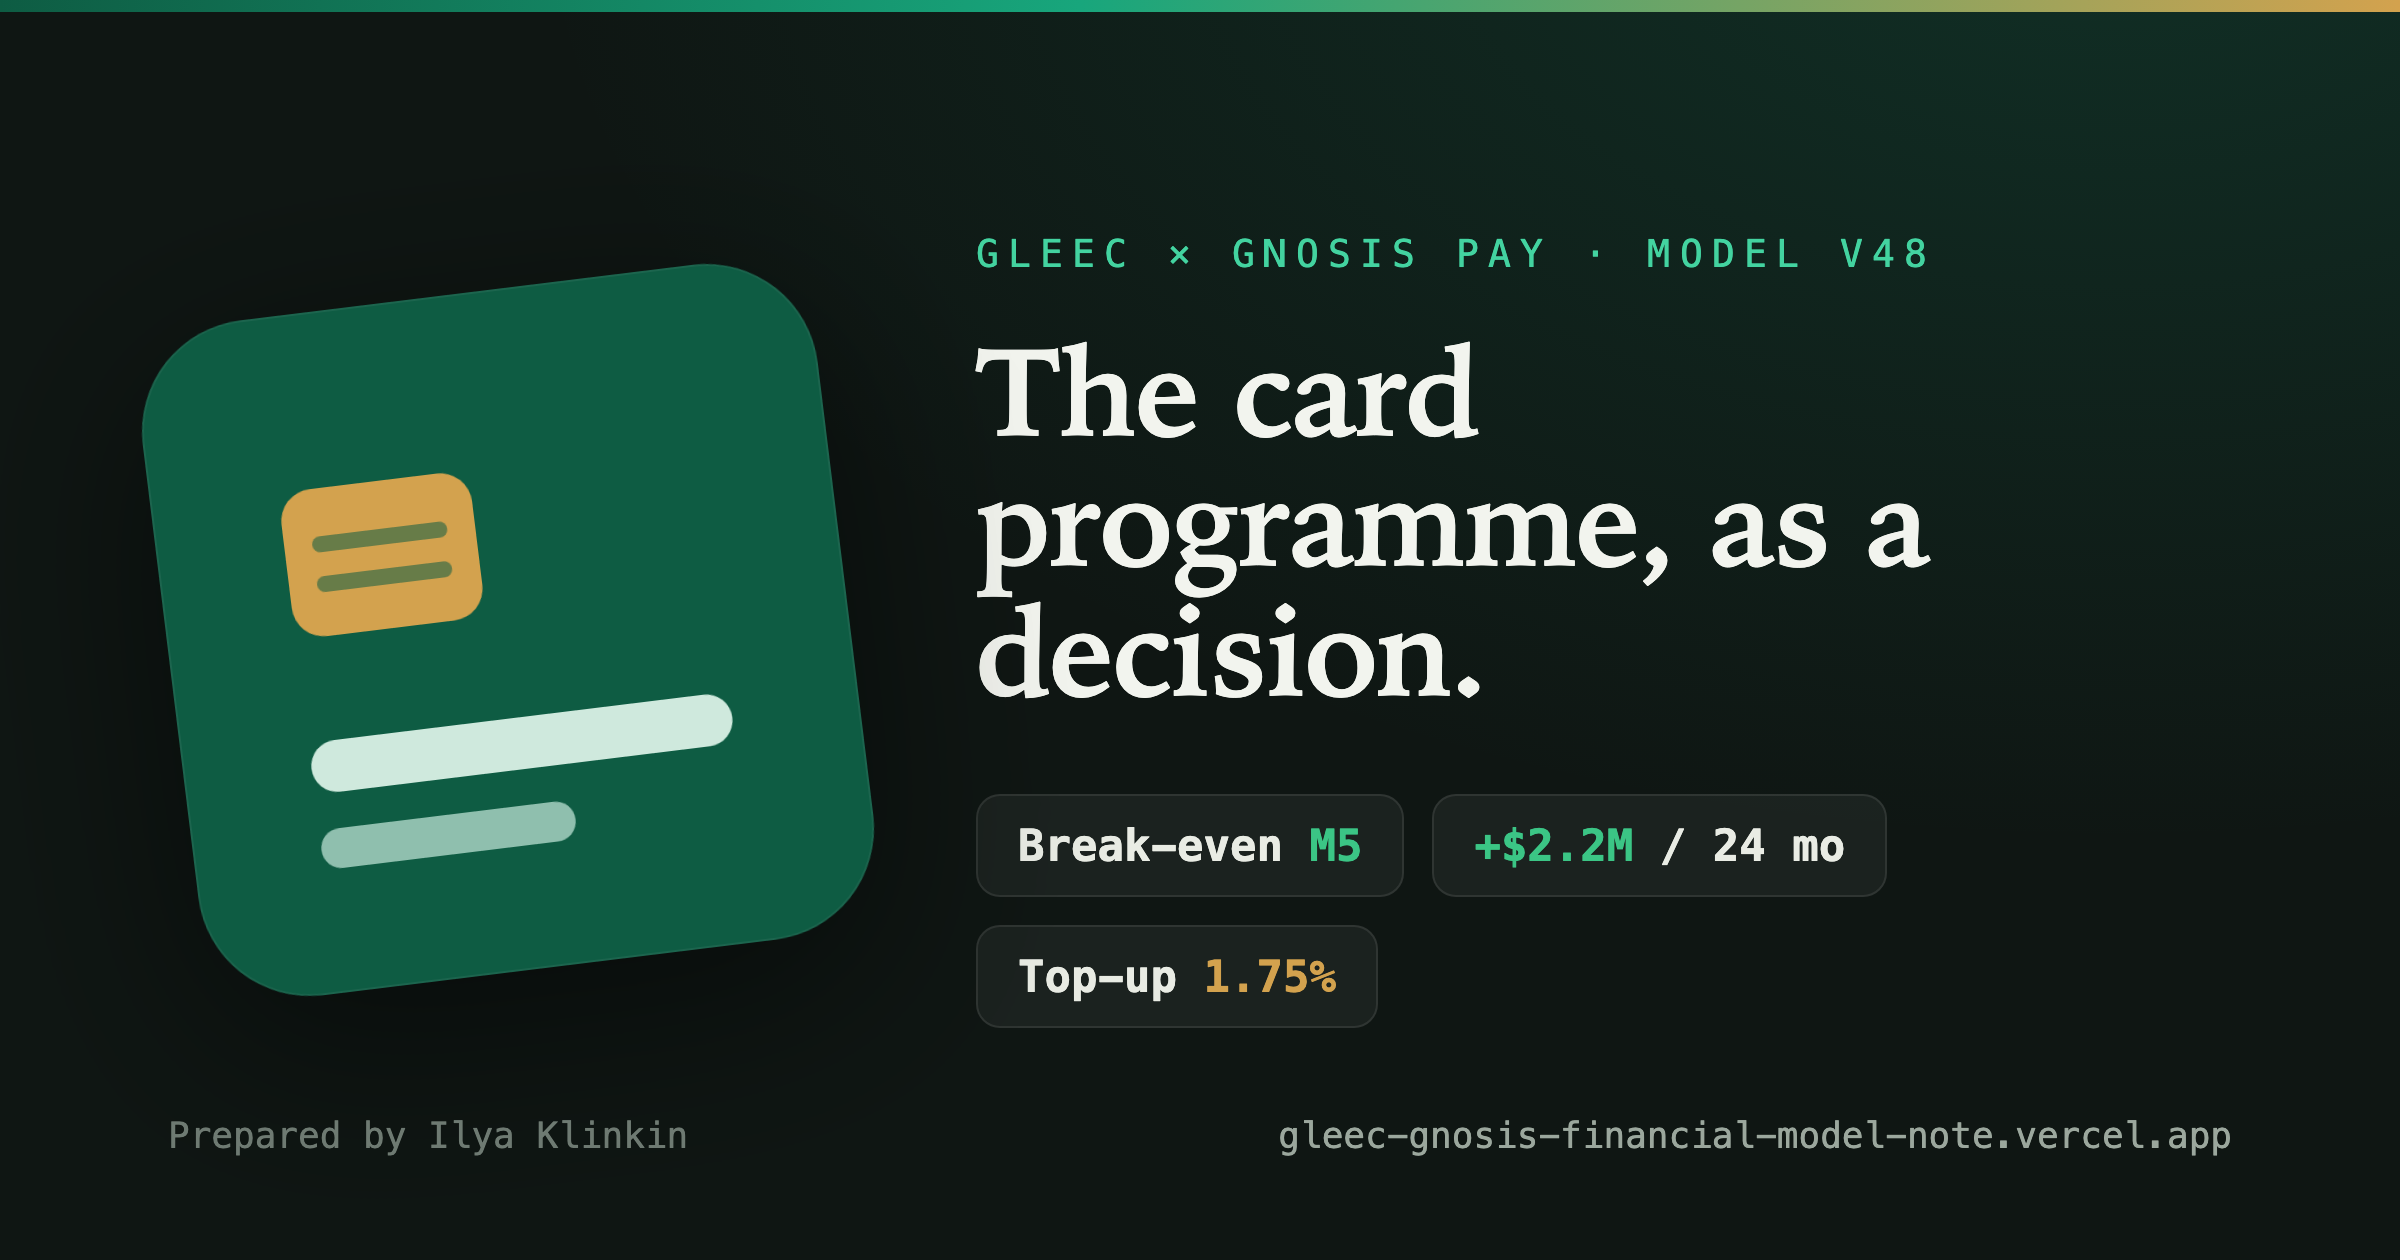
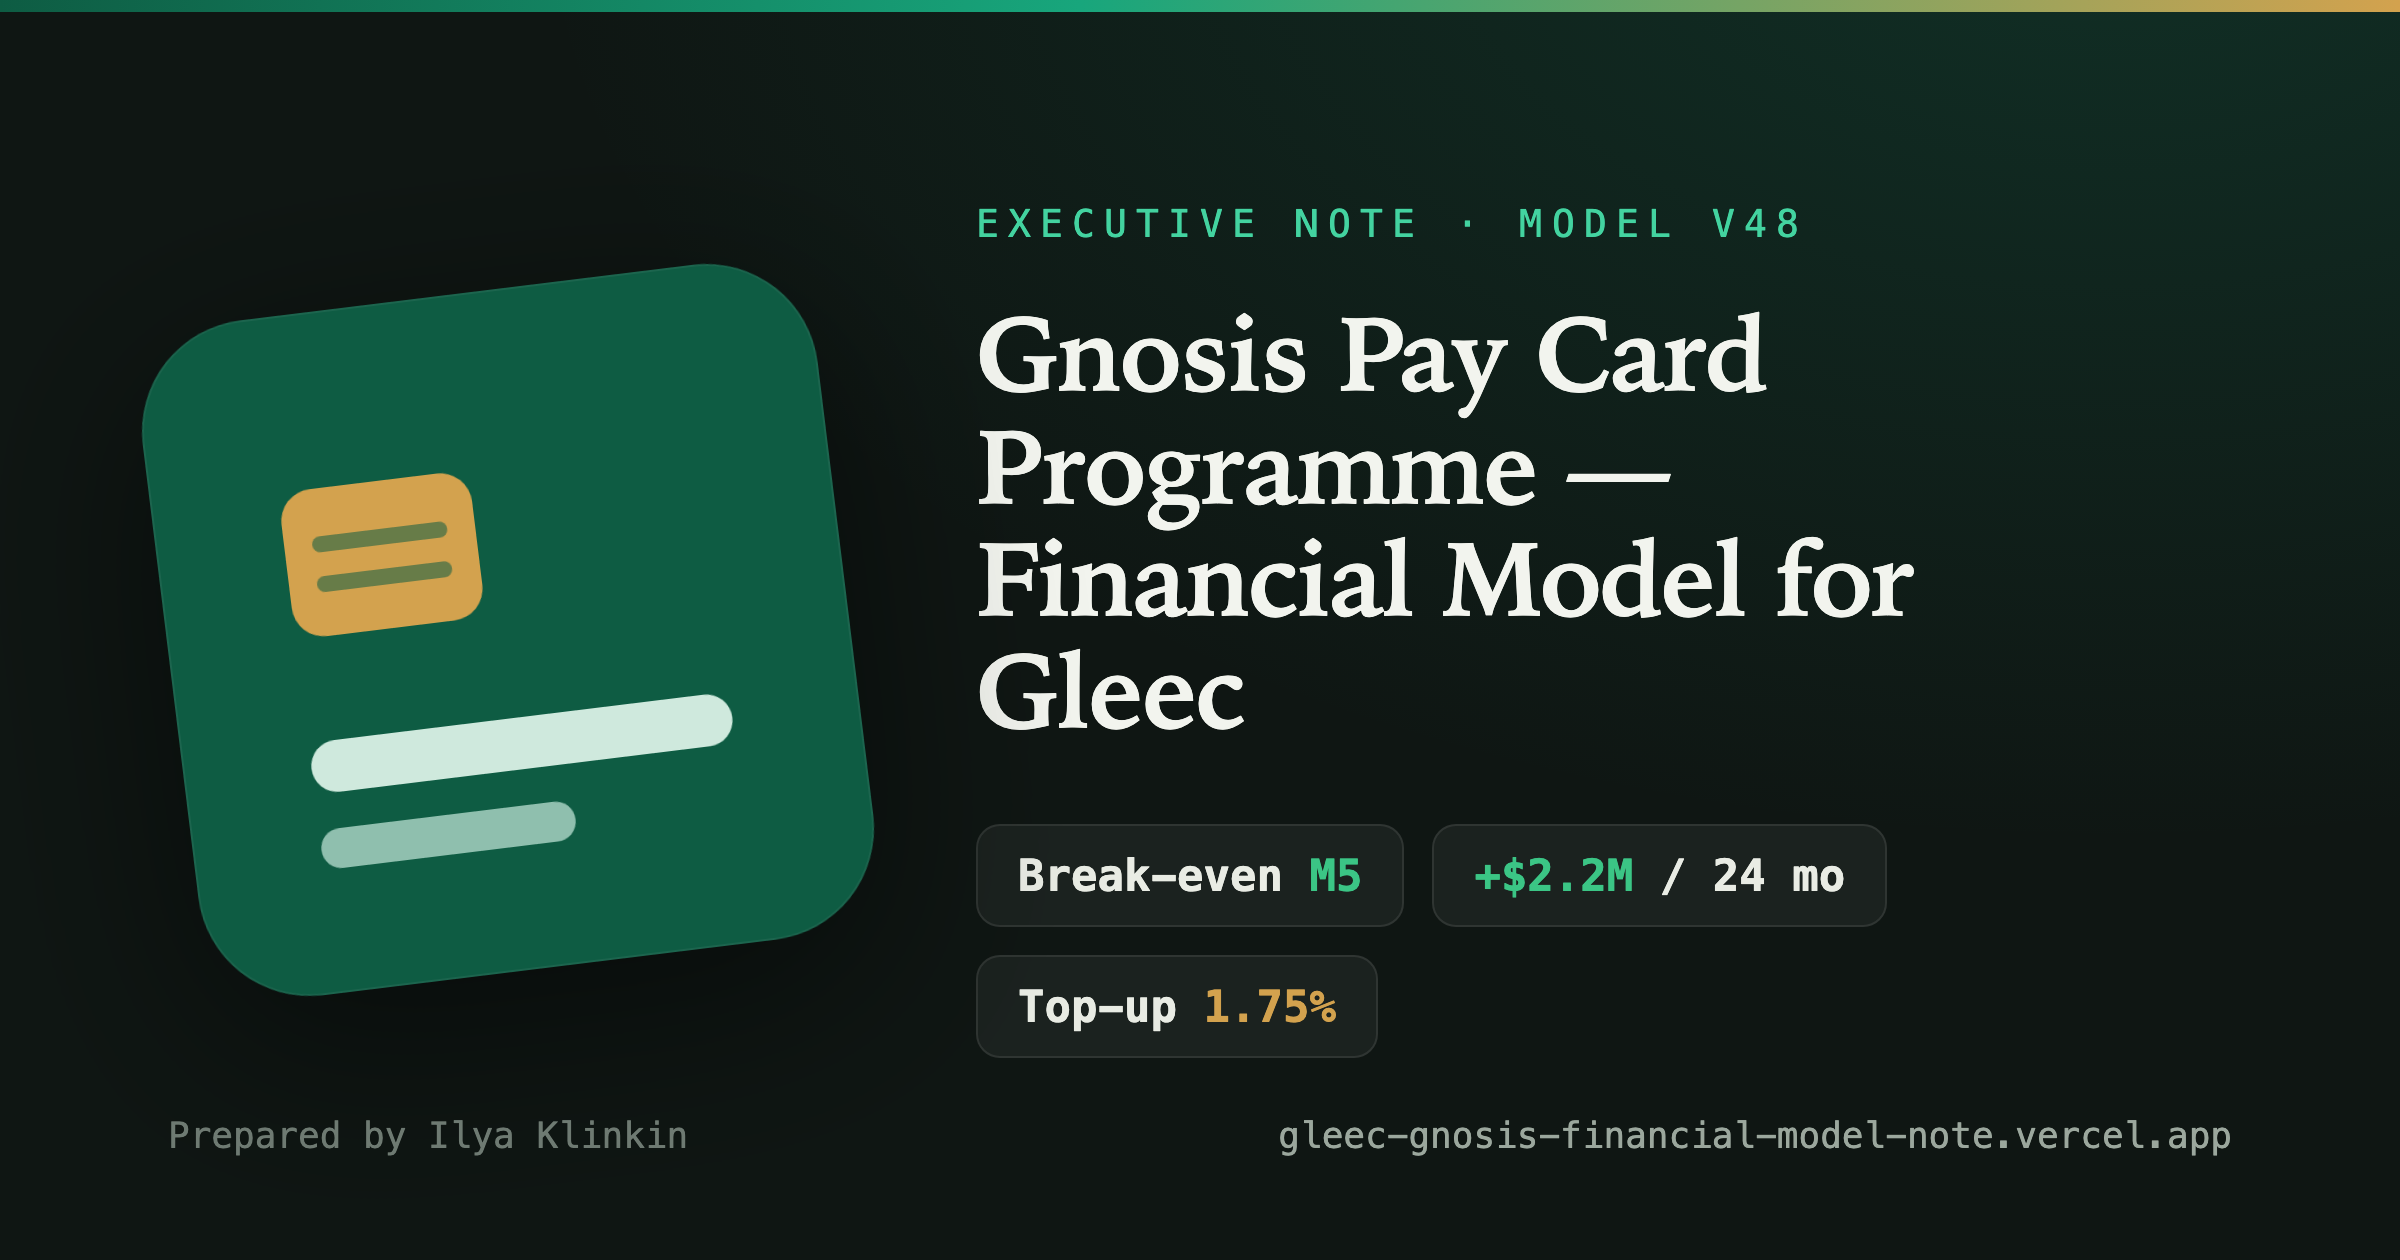
content: use formal title as headline, drop the eyebrow and punchy hook
Reads as an executive note rather than an article: H1 is now 'Gnosis Pay Card Programme - Financial Model for Gleec' at calmer sizing. Aligns <title>, og/twitter titles, and regenerates the share card to match ('Executive Note' eyebrow).

diff --git a/index.html b/index.html
@@ -6,9 +6,9 @@
 <meta name="description" content="Executive briefing on the Gleec / Gnosis Pay card financial model (v48).">
 <meta name="color-scheme" content="light dark">
 <link rel="icon" type="image/svg+xml" href="favicon.svg">
-<title>Gleec &times; Gnosis Pay &mdash; The Card Programme as a Decision</title>
+<title>Gnosis Pay Card Programme &mdash; Financial Model for Gleec</title>
 <meta property="og:type" content="article">
-<meta property="og:title" content="Gleec × Gnosis Pay — The Card Programme as a Decision">
+<meta property="og:title" content="Gnosis Pay Card Programme — Financial Model for Gleec">
 <meta property="og:description" content="Executive briefing on the Gleec / Gnosis Pay card financial model (v48): break-even in month 5, +$2.2M over 24 months, with interactive charts.">
 <meta property="og:url" content="https://gleec-gnosis-financial-model-note.vercel.app">
 <meta property="og:image" content="https://gleec-gnosis-financial-model-note.vercel.app/og-image.png">
@@ -16,7 +16,7 @@
 <meta property="og:image:height" content="1260">
 <meta property="og:image:alt" content="Gleec × Gnosis Pay financial model v48 — break-even month 5, +$2.2M over 24 months.">
 <meta name="twitter:card" content="summary_large_image">
-<meta name="twitter:title" content="Gleec × Gnosis Pay — The Card Programme as a Decision">
+<meta name="twitter:title" content="Gnosis Pay Card Programme — Financial Model for Gleec">
 <meta name="twitter:description" content="Executive briefing on the Gleec / Gnosis Pay card financial model (v48): break-even in month 5, +$2.2M over 24 months.">
 <meta name="twitter:image" content="https://gleec-gnosis-financial-model-note.vercel.app/og-image.png">
 
@@ -270,8 +270,7 @@
 <body>
 <header class="mast">
   <div class="wrap mast-inner">
-    <div class="eyebrow" style="margin-bottom:1.4rem;">Gnosis Pay Card Programme &middot; Financial Model for Gleec</div>
-    <h1>The card programme, read as a decision.</h1>
+    <h1 style="font-size:clamp(2rem,4.6vw,3rem); max-width:24ch;">Gnosis Pay Card Programme &mdash; Financial Model for Gleec</h1>
     <p class="lede">An executive note that walks through the model &mdash; how to read it, the assumptions that matter, and why repricing the top-up fee moves break-even to month 5.</p>
     <div class="meta">
       <div><span class="k">Horizon</span><span class="v num">24 months &middot; Aug 2026 &rarr; Jul 2028</span></div>